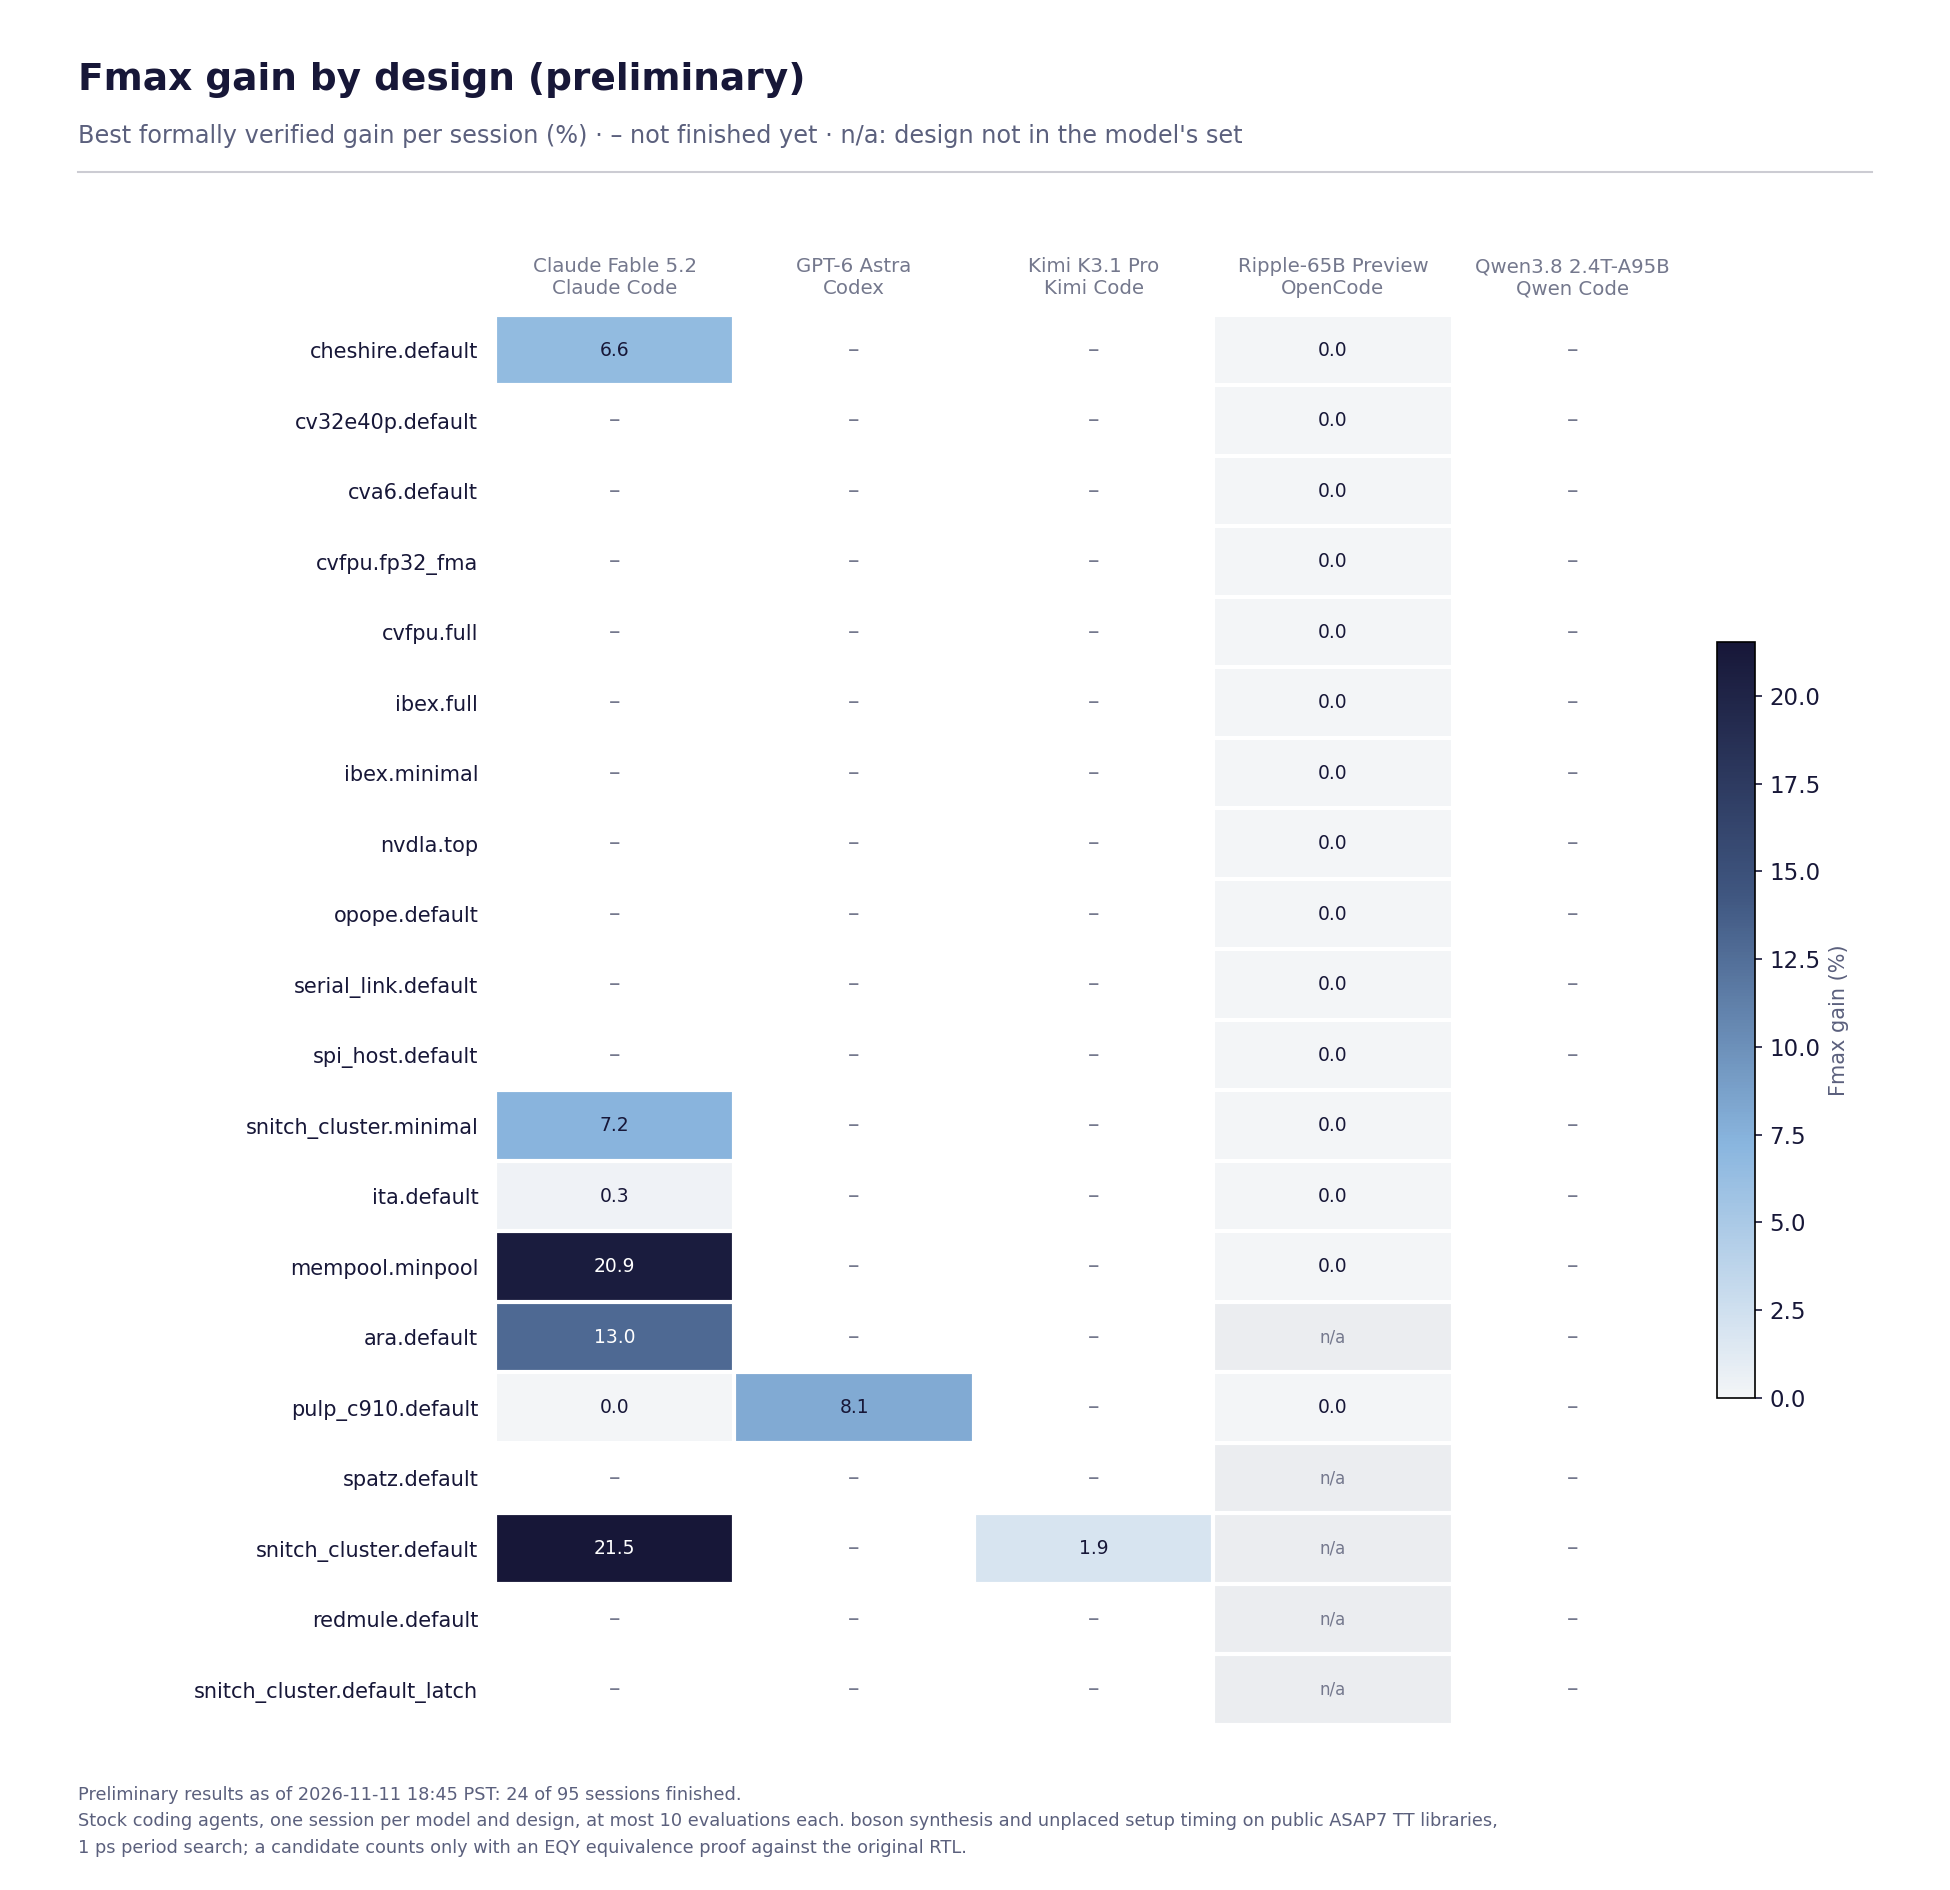
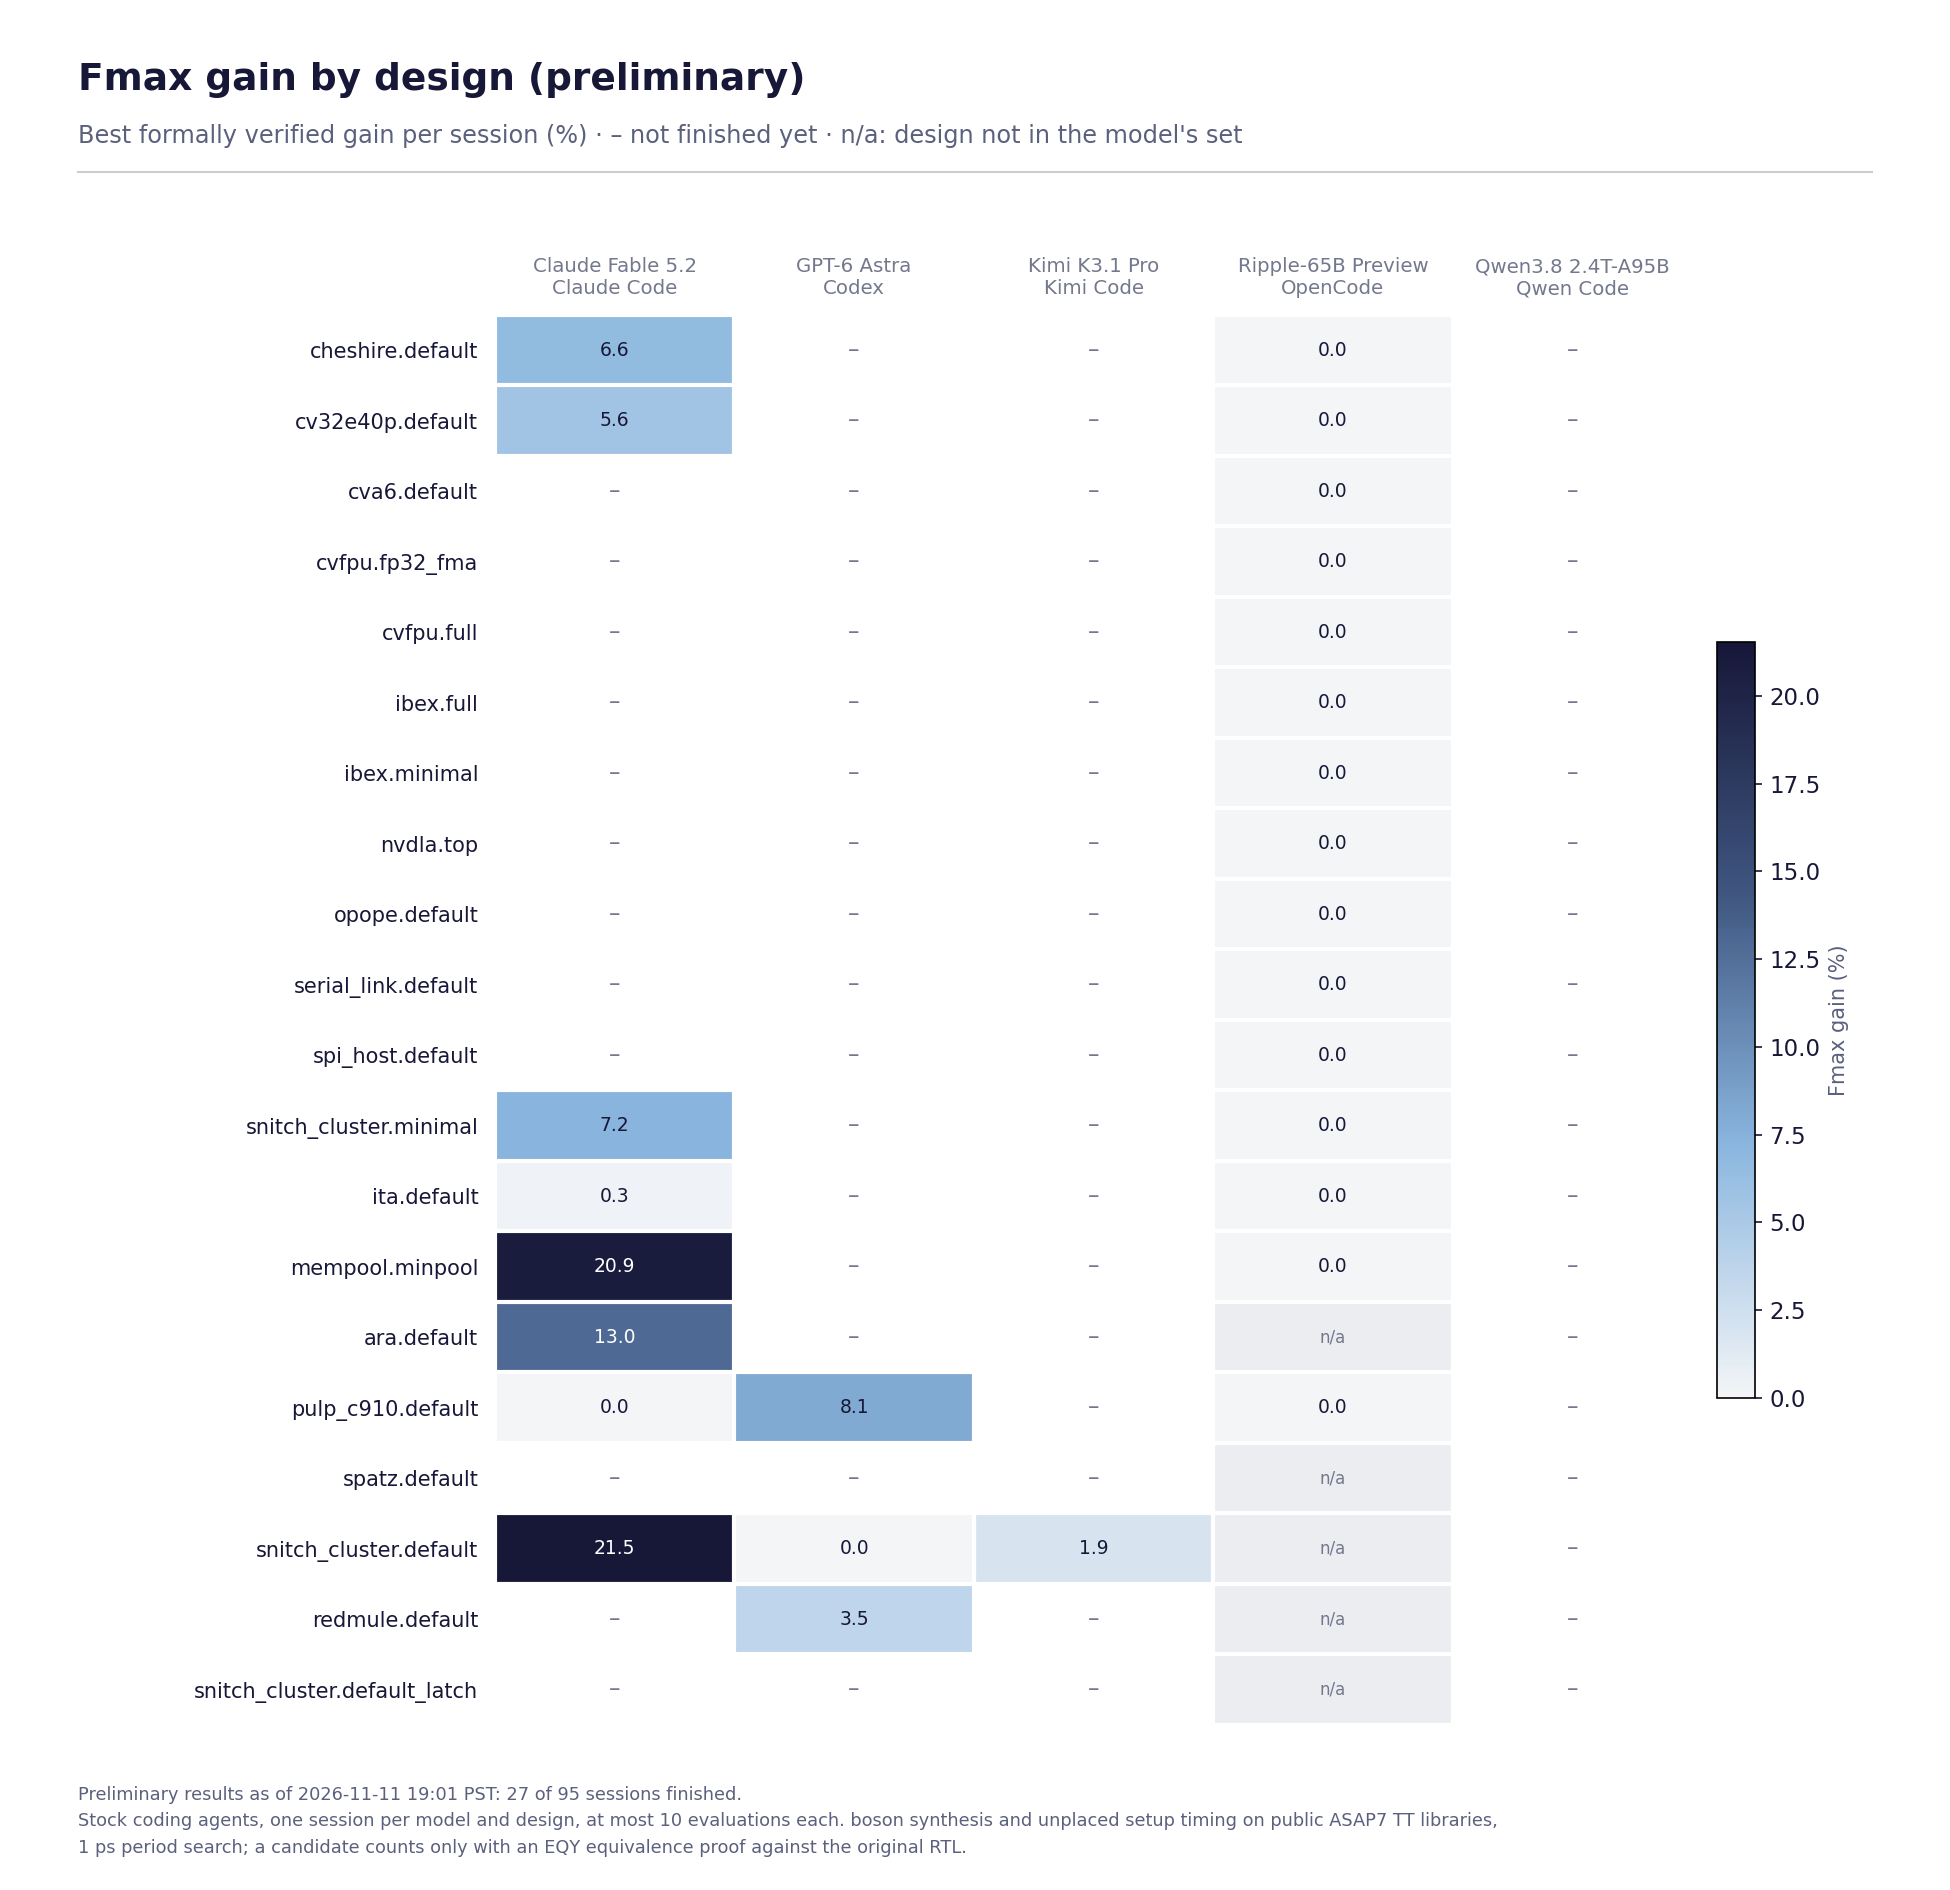
Refresh preliminary results: 27 of 95 sessions finished
Data as of 2026-11-11 19:01 PST.

Changed region(s): [[0.2462, 0.1873, 0.4, 0.2497], [0.3692, 0.8116, 0.5231, 0.8741]]

diff --git a/README.md b/README.md
@@ -21,14 +21,14 @@ accepted only when it is proven equivalent and faster than the session's best so
 ## Results
 
 <!-- results:start -->
-**Status:** 24 of 95 sessions finished (5 models, 20 designs), as of 2026-11-11 18:45 PST.
+**Status:** 27 of 95 sessions finished (5 models, 20 designs), as of 2026-11-11 19:01 PST.
 
 ### Coverage
 
 | Model | Developer | Harness | Access | Sessions finished |
 |---|---|---|---|---:|
-| Claude Fable 5.2 | Anthropic | Claude Code 2.1.322 | Official CLI signed in to a subscription | 7 / 20 |
-| GPT-6 Astra | OpenAI | Codex 0.154.0 | Official CLI signed in to a subscription | 1 / 20 |
+| Claude Fable 5.2 | Anthropic | Claude Code 2.1.322 | Official CLI signed in to a subscription | 8 / 20 |
+| GPT-6 Astra | OpenAI | Codex 0.154.0 | Official CLI signed in to a subscription | 3 / 20 |
 | Kimi K3.1 Pro | Moonshot AI | Kimi Code 2.5.2 | OpenRouter, pinned to Moonshot AI's own endpoint (MXFP4), fallbacks disabled | 1 / 20 |
 | Qwen3.8 2.4T-A95B | Qwen (Alibaba) | Qwen Code 0.27.1 | OpenRouter, one pinned provider (SiliconFlow, FP8) | 0 / 20 |
 | Ripple-65B Preview | Ricursive AI | OpenCode 1.19.5 | Self-hosted (SGLang 0.5.19, BF16) for its first 15 designs; OpenRouter pinned to PrimeIntellect (BF16) for later sessions | 15 / 15 |
@@ -37,8 +37,8 @@ accepted only when it is proven equivalent and faster than the session's best so
 
 | Model | Harness | Designs finished | Fmax gain (geomean) | Designs improved | Mean evaluations | Candidates not proven |
 |---|---|---:|---:|---:|---:|---:|
-| Claude Fable 5.2 | Claude Code | 7 / 20 | +9.63% | 6 / 7 | 5.0 | 37% (13 / 35) |
-| GPT-6 Astra | Codex | 1 / 20 | +8.06% | 1 / 1 | 10.0 | 70% (7 / 10) |
+| Claude Fable 5.2 | Claude Code | 8 / 20 | +9.12% | 7 / 8 | 4.9 | 38% (15 / 39) |
+| GPT-6 Astra | Codex | 3 / 20 | +3.82% | 2 / 3 | 4.0 | 67% (8 / 12) |
 | Kimi K3.1 Pro | Kimi Code | 1 / 20 | +1.92% | 1 / 1 | 8.0 | 62% (5 / 8) |
 | Ripple-65B Preview | OpenCode | 15 / 15 | +0.00% | 0 / 15 | 0.2 | 100% (3 / 3) |
 
@@ -49,7 +49,7 @@ Fmax gain is the geometric mean of each finished session's Fmax ratio (baseline 
 | Design | Baseline period (ns) | Sessions finished | Best period (ns) | Fmax gain | Best by |
 |---|---:|---:|---:|---:|---|
 | `cheshire.default` | 1.047 | 2 | 0.982 | +6.62% | Claude Fable 5.2 |
-| `cv32e40p.default` | 0.657 | 1 | 0.657 | +0.00% | no improvement yet |
+| `cv32e40p.default` | 0.657 | 2 | 0.622 | +5.63% | Claude Fable 5.2 |
 | `cva6.default` | 1.038 | 1 | 1.038 | +0.00% | no improvement yet |
 | `cvfpu.fp32_fma` | 1.401 | 1 | 1.401 | +0.00% | no improvement yet |
 | `cvfpu.full` | 2.114 | 1 | 2.114 | +0.00% | no improvement yet |
@@ -65,19 +65,19 @@ Fmax gain is the geometric mean of each finished session's Fmax ratio (baseline 
 | `ara.default` | 1.064 | 1 | 0.942 | +12.95% | Claude Fable 5.2 |
 | `pulp_c910.default` | 1.005 | 3 | 0.930 | +8.06% | GPT-6 Astra |
 | `spatz.default` | 2.266 | 0 | — | — | — |
-| `snitch_cluster.default` | 2.128 | 2 | 1.751 | +21.53% | Claude Fable 5.2 |
-| `redmule.default` | 1.636 | 0 | — | — | — |
+| `snitch_cluster.default` | 2.128 | 3 | 1.751 | +21.53% | Claude Fable 5.2 |
+| `redmule.default` | 1.636 | 1 | 1.580 | +3.54% | GPT-6 Astra |
 | `snitch_cluster.default_latch` | 2.169 | 0 | — | — | — |
 
 ### Early observations
 
 Counts over every finished session of the models above. They describe what happened; with one session per model and design they do not establish causes or rankings.
 
-- 56 candidates evaluated: 23 accepted, 5 proven equivalent but not faster than the session's best, 28 not proven (21 with a partition EQY could not prove, 1 at the proof deadline, 6 over the proof memory budget), 0 failed to compile or measure.
-- Of 24 finished sessions, 7 ended with the agent finishing on its own, 16 ran to the time budget and 1 ended with an agent error.
+- 62 candidates evaluated: 26 accepted, 5 proven equivalent but not faster than the session's best, 31 not proven (24 with a partition EQY could not prove, 1 at the proof deadline, 6 over the proof memory budget), 0 failed to compile or measure.
+- Of 27 finished sessions, 8 ended with the agent finishing on its own, 16 ran to the time budget and 3 ended with an agent error.
 - Sessions used 2.3 of the 10 allowed evaluations on average; 1 used all 10.
 - Largest single gain so far: `snitch_cluster.default` by Claude Fable 5.2, 2.128 ns to 1.751 ns (+21.53% Fmax).
-- No finished session has improved `cv32e40p.default`, `cva6.default`, `cvfpu.fp32_fma`, `cvfpu.full`, `ibex.full`, `ibex.minimal`, `nvdla.top`, `opope.default`, `serial_link.default`, `spi_host.default` yet.
+- No finished session has improved `cva6.default`, `cvfpu.fp32_fma`, `cvfpu.full`, `ibex.full`, `ibex.minimal`, `nvdla.top`, `opope.default`, `serial_link.default`, `spi_host.default` yet.
 <!-- results:end -->
 
 ## Charts
